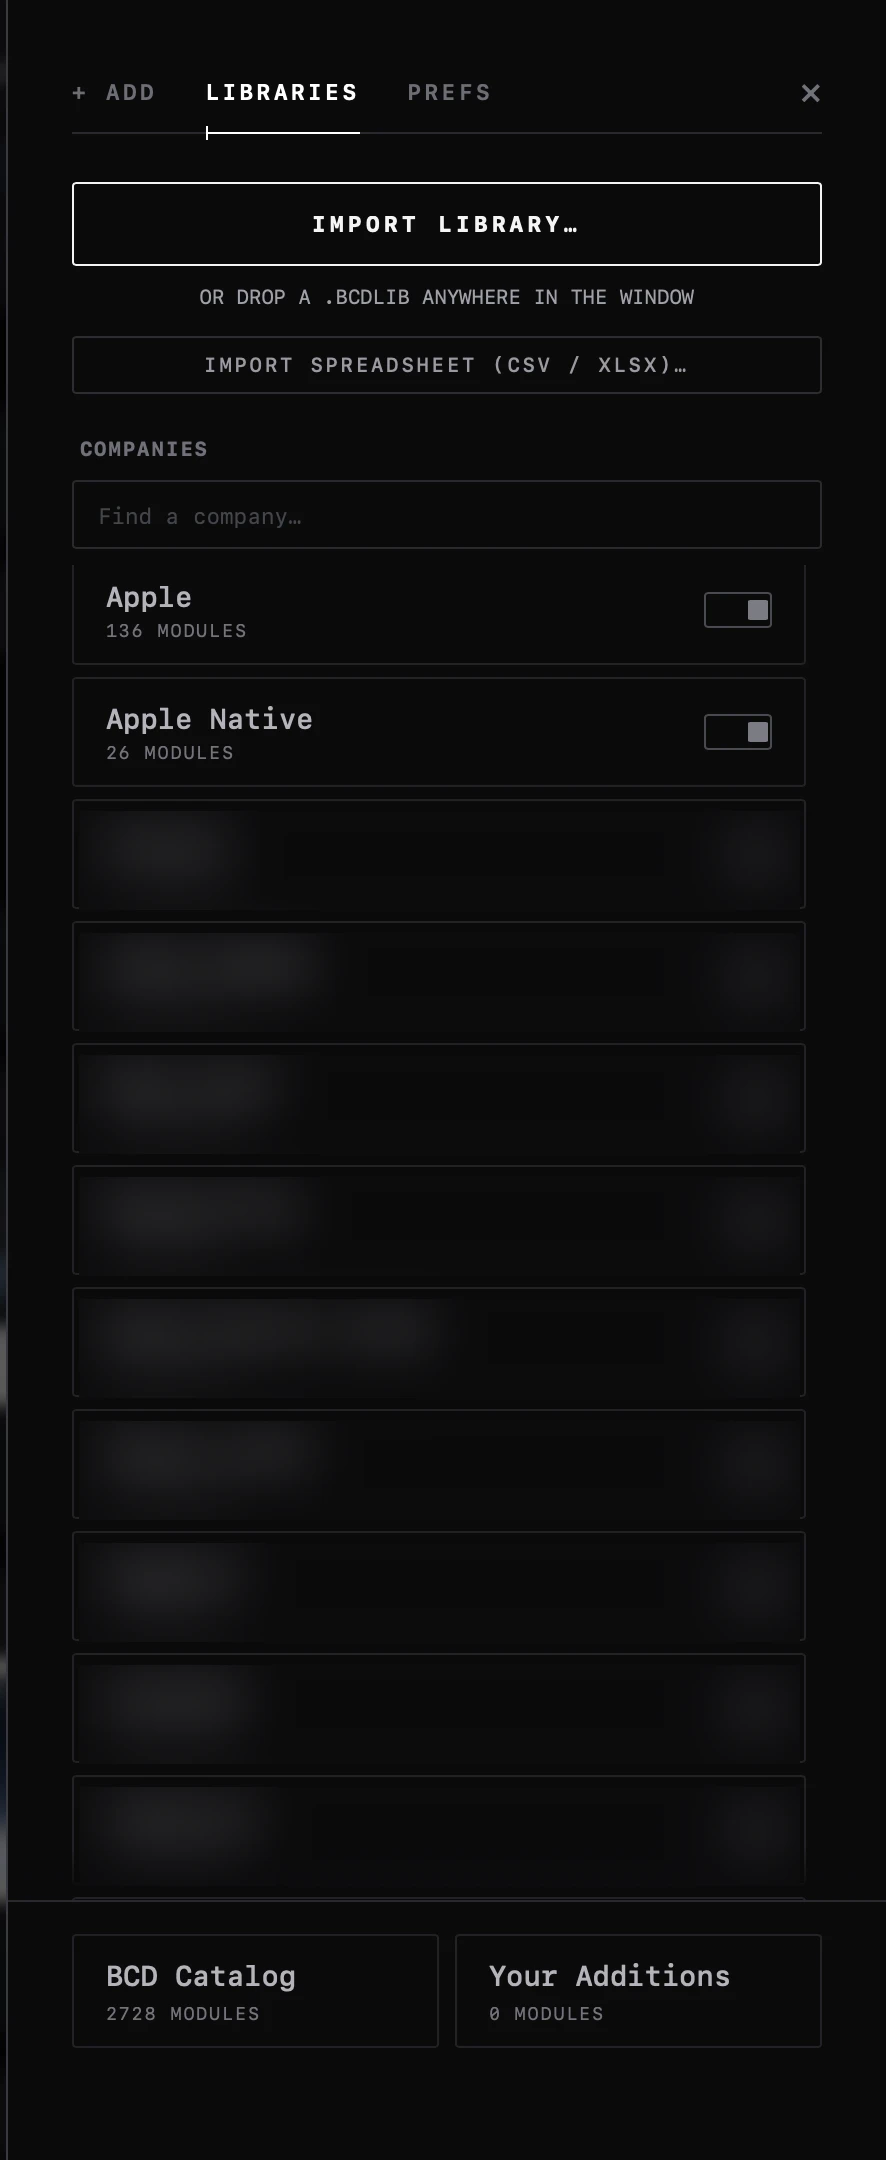
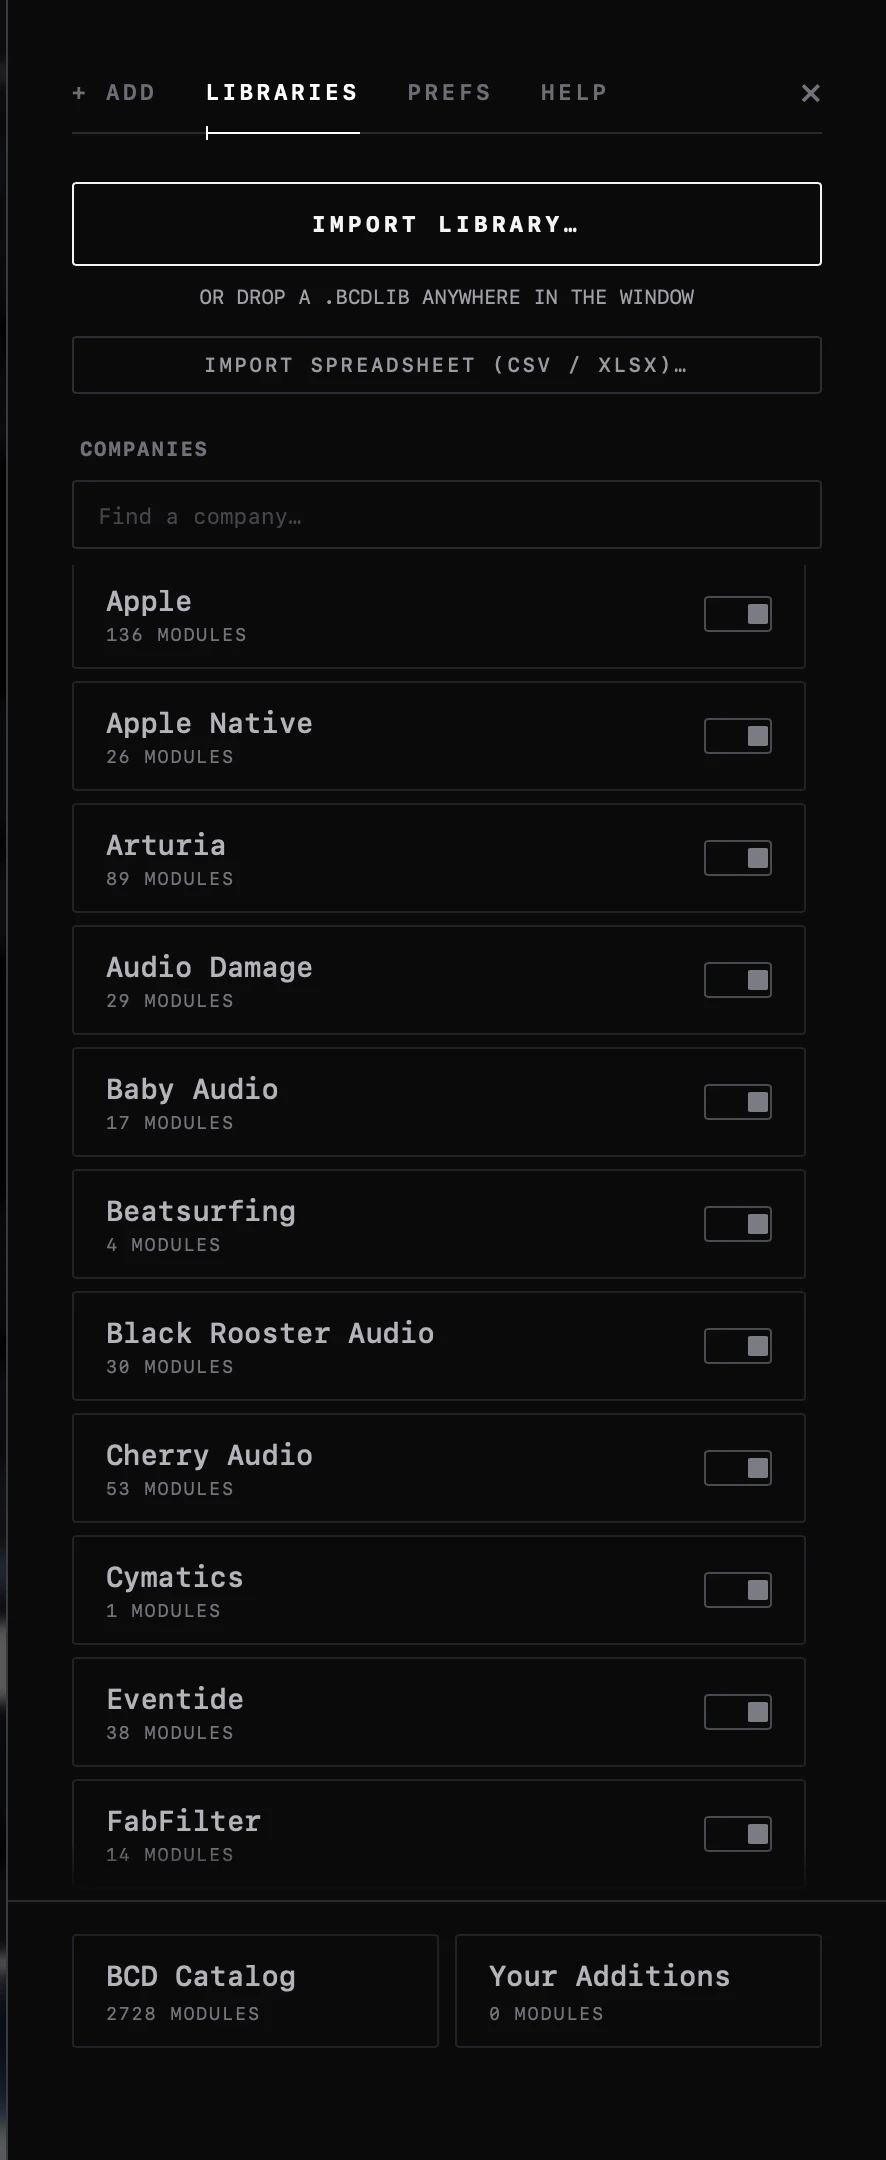
Omni MAX and Essentials pages: new Add, Help, Libraries, Prefs drawers and colour tag tiles
Claude-Session: https://claude.ai/code/session_01CH3L65XQEXCz6Uu3iFQYpi

diff --git a/public/omni/index.html b/public/omni/index.html
@@ -82,12 +82,14 @@ nav .wrap{display:grid;grid-template-columns:1fr auto 1fr;gap:16px}nav .wrap>.li
 <div class="row"><div class="shots"><img src="page/r04_search.webp" alt="Search" style="max-width:100%"><img src="page/r04_search_typed.webp" alt="Search with text typed, showing the clear button" style="max-width:100%"></div><div class="txt"><div class="lab">04</div><h3>Search and Logic Search</h3><p>Type to filter modules by name. A small × appears at the end of the field to clear what you typed. The dot at the end opens Logic’s own plugin search.</p></div></div>
 <div class="row"><div class="shots"><img src="page/mag_toolbar.webp" alt="The Magnify button, switched on" style="max-width:100%"><img src="page/mag_popup.webp" alt="A module enlarged by Magnify" style="max-width:100%"></div><div class="txt"><div class="lab">05</div><h3>Magnify</h3><p>Switch it on and hover any module to see its artwork enlarged, with its name and company. It is switched off while you batch-select.</p></div></div>
 <div class="row"><div class="shots"><img src="page/batch_toolbar.webp" alt="The Batch button" style="max-width:100%"><img src="page/batch_bar.webp" alt="The batch bar with two modules selected" style="max-width:100%"></div><div class="txt"><div class="lab">06</div><h3>Batch</h3><p>Click Batch, then click modules to select them. A bar opens at the bottom with Select all, favourite or unfavourite, hide or unhide, owned or not owned, colour tags, export, delete and Add to category. Delete removes your own additions. Done closes the bar.</p></div></div>
-<div class="row"><div class="shots"><img src="page/drawer_add.webp" alt="The Add drawer" style="max-width:440px"></div><div class="txt"><div class="lab">07</div><h3>+ Add</h3><p>Add a module by hand. Give it a name, then the exact name Logic uses in its plugin menu, so it can be found. Choose the manufacturer and categories, and mark it Owned or Hidden if you want to. Then add a colour tag, drop in artwork and press Add Module.</p><p><strong>If it is an instrument, you must click the large Instrument button under the categories. That triggers the Instrument macro, which creates the channel strip first.</strong></p></div></div>
+<div class="row"><div class="shots"><img src="page/drawer_add_effect.webp" alt="The Add drawer with Effect chosen" style="max-width:440px"><img src="page/drawer_add_instrument.webp" alt="The Add drawer with Instrument chosen" style="max-width:440px"></div><div class="txt"><div class="lab">07</div><h3>+ Add</h3><p>Add a module by hand. Give it a name, then the exact name Logic uses in its plugin menu, so it can be found. Under the name, choose Effect or Instrument. Choose the manufacturer and categories, and mark it Owned or Hidden if you want to. Then add a colour tag, drop in artwork and press Add Module.</p><p><strong>Instrument matters: it triggers the Instrument macro, which creates the channel strip first.</strong></p></div></div>
 <div class="row"><div class="shots"><img src="page/drawer_libraries.webp" alt="The Libraries drawer" style="max-width:440px"></div><div class="txt"><div class="lab">08</div><h3>Libraries</h3><p>Import a library, or drop a .BCDLIB file anywhere in the window, or import a spreadsheet (CSV or XLSX). Every company has its own switch, so you can show or hide whole libraries. BCD Catalog and Your Additions show how many modules come from each.</p></div></div>
 <div class="row"><div class="shots"><img src="page/drawer_prefs.webp" alt="The Prefs drawer" style="max-width:440px"></div><div class="txt"><div class="lab">09</div><h3>Prefs</h3><p>Choose whether Omni opens in Grid, Sphere or where you left off, and set the tile size and artwork zoom. Pick a click glow and its colour, name your six colour tags, and choose whether tags show in List only or in Grid and Sphere too. The Sphere field can be endless or single.</p></div></div>
-<div class="row"><div class="shots"><img src="page/r09_states.webp" alt="Favs, Owned and Hidden" style="max-width:720px"></div><div class="txt"><div class="lab">10</div><h3>Favs, Owned and Hidden</h3><p>Three filters that combine with the category and company rows. Favs shows what you have hearted, Owned shows what you own, and Hidden shows what you have put away. Colour dots filter by tag.</p></div></div>
-<div class="row"><div class="shots"><img src="page/r08_left.webp" alt="The category row and the company pill" style="max-width:100%"><img src="page/r08_right.webp" alt="The circles that show or hide categories and companies" style="max-width:100%"></div><div class="txt"><div class="lab">11</div><h3>Categories and companies</h3><p>Filter by company, then by that company’s own categories. With everything showing, the same row becomes BCD’s 14 categories, so every manufacturer shares one vocabulary. The circle at the end of the category row shows or hides all the categories. The circle at the end of the company row shows or hides the companies.</p></div></div>
-<div class="row"><div class="shots"><img src="page/tile_closeup_grid.webp" alt="A module tile in Grid view, with artwork" style="max-width:516px"><img src="page/tile_closeup.webp" alt="A module tile in List view, name only" style="max-width:516px"></div><div class="txt"><div class="lab">12</div><h3>Module cards</h3><p>Click the artwork or the name and the plugin opens on the selected channel strip in Logic. The dot marks owned or not owned, the pencil edits the module, and the heart adds it to your favourites. Grid tiles show the artwork, List tiles show the name.</p></div></div>
+<div class="row"><div class="shots"><img src="page/drawer_help.webp" alt="The Help drawer" style="max-width:440px"></div><div class="txt"><div class="lab">10</div><h3>Help</h3><p>The build number to quote when you send feedback, a one-click check of the permission the app needs for inserts, and a short list of what the app needs. Below that is a plain list of fixes: the first click does nothing, Logic comes forward and nothing else happens, a blank window, and a plugin not found in Logic.</p></div></div>
+<div class="row"><div class="shots"><img src="page/r09_states.webp" alt="Favs, Owned and Hidden" style="max-width:720px"></div><div class="txt"><div class="lab">11</div><h3>Favs, Owned and Hidden</h3><p>Three filters that combine with the category and company rows. Favs shows what you have hearted, Owned shows what you own, and Hidden shows what you have put away. Colour dots filter by tag.</p></div></div>
+<div class="row"><div class="shots"><img src="page/r08_left.webp" alt="The category row and the company pill" style="max-width:100%"><img src="page/r08_right.webp" alt="The circles that show or hide categories and companies" style="max-width:100%"></div><div class="txt"><div class="lab">12</div><h3>Categories and companies</h3><p>Filter by company, then by that company’s own categories. With everything showing, the same row becomes BCD’s 14 categories, so every manufacturer shares one vocabulary. The circle at the end of the category row shows or hides all the categories. The circle at the end of the company row shows or hides the companies.</p></div></div>
+<div class="row"><div class="shots"><img src="page/tile_closeup_grid.webp" alt="A module tile in Grid view, with artwork" style="max-width:516px"><img src="page/tile_closeup.webp" alt="A module tile in List view, name only" style="max-width:516px"></div><div class="txt"><div class="lab">13</div><h3>Module cards</h3><p>Click the artwork or the name and the plugin opens on the selected channel strip in Logic. The dot marks owned or not owned, the pencil edits the module, and the heart adds it to your favourites. Grid tiles show the artwork, List tiles show the name.</p></div></div>
+<div class="row"><div class="shots"><img src="page/colours_grid.webp" alt="A Grid tile with the colour tag row showing" style="max-width:516px"><img src="page/colours_list.webp" alt="A List tile with the colour tag row showing" style="max-width:516px"></div><div class="txt"><div class="lab">14</div><h3>Colour tags</h3><p>Each tile can carry one of six colour tags. Choose a colour from the row of six dots, or the x to clear it. In List the tile takes the tint. Grid and Sphere show tags too if you switch that on in Prefs. You can name your six tags there as well.</p></div></div>
 </div></section>
 
 <section class="white" id="get" style="margin-top:48px;padding:96px 32px"><div class="wrap">

diff --git a/public/omni/essentials.html b/public/omni/essentials.html
@@ -64,6 +64,8 @@ nav .wrap{display:grid;grid-template-columns:1fr auto 1fr;gap:16px}nav .wrap>.li
 <div class="row"><div class="shots"><img src="page/ess_effects.webp" alt="Effects tab"></div><div class="txt"><div class="lab">02</div><h3>Effects</h3><p>Click a name and it loads into Logic. Hover a name and its artwork appears in the panel on the right.</p></div></div>
 <div class="row"><div class="shots"><img src="page/ess_instruments.webp" alt="Instruments tab"></div><div class="txt"><div class="lab">03</div><h3>Instruments</h3><p>A single click does more than load the instrument. Essentials first creates a software instrument channel strip and resets it, then loads the instrument. If your Logic has default settings on new tracks, this removes that problem.</p></div></div>
 <div class="row"><div class="shots"><img src="page/ess_au.webp" alt="Audio Units tab"></div><div class="txt"><div class="lab">04</div><h3>Audio Units</h3><p>The same one-click loading for Apple's native Audio Units, laid out by category.</p></div></div>
+<div class="row"><div class="shots"><img src="page/ess_prefs.webp" alt="The Preferences drawer" style="max-width:360px"></div><div class="txt"><div class="lab">05</div><h3>Preferences</h3><p>Set a keyboard shortcut to show or hide the app, and reveal its data folder in Finder. Favourites are shared with Omni MAX.</p></div></div>
+<div class="row"><div class="shots"><img src="page/ess_help.webp" alt="The Help drawer" style="max-width:360px"></div><div class="txt"><div class="lab">06</div><h3>Help</h3><p>The build number to quote when you send feedback, a one-click check of the permission the app needs for inserts, and what it needs to run. Below that is a short list of fixes for the first click doing nothing, Logic coming forward with nothing else happening, and a blank window.</p></div></div>
 </div></section>
 
 <section class="white" id="get" style="margin-top:48px;padding:96px 32px"><div class="wrap">
